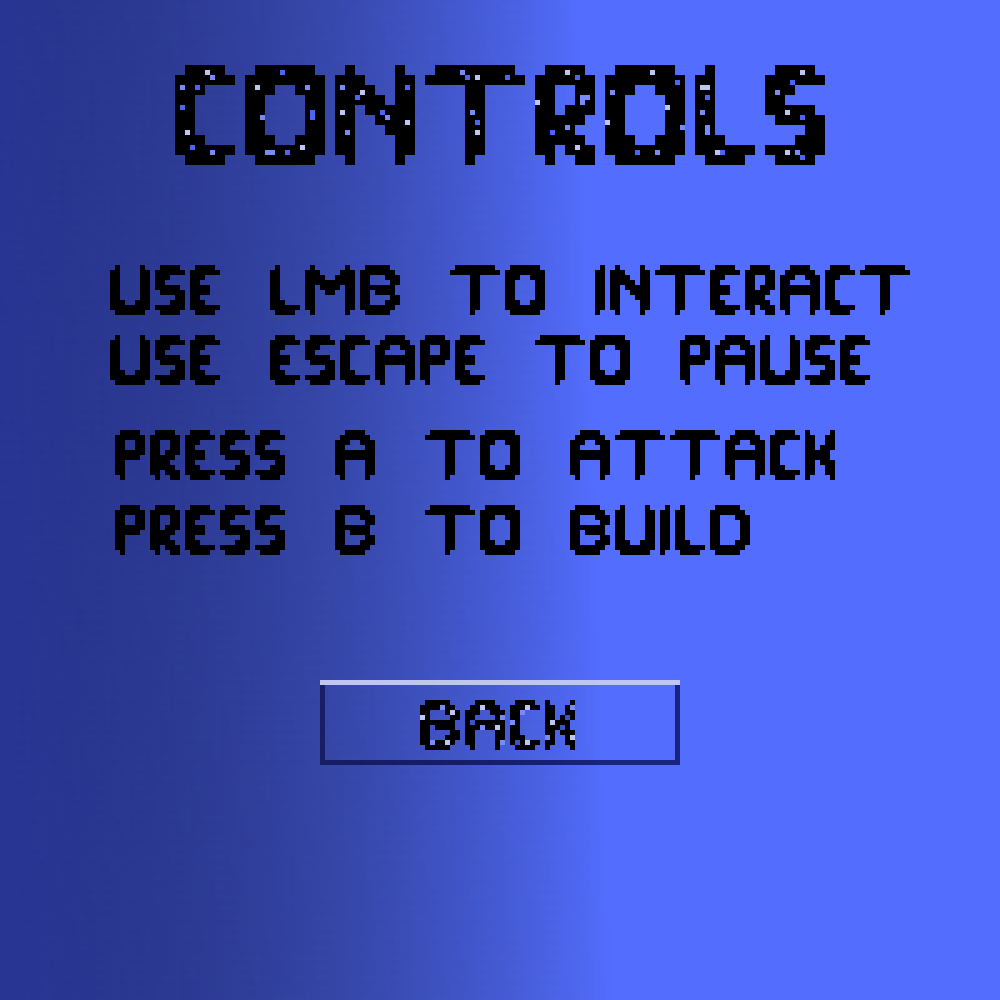
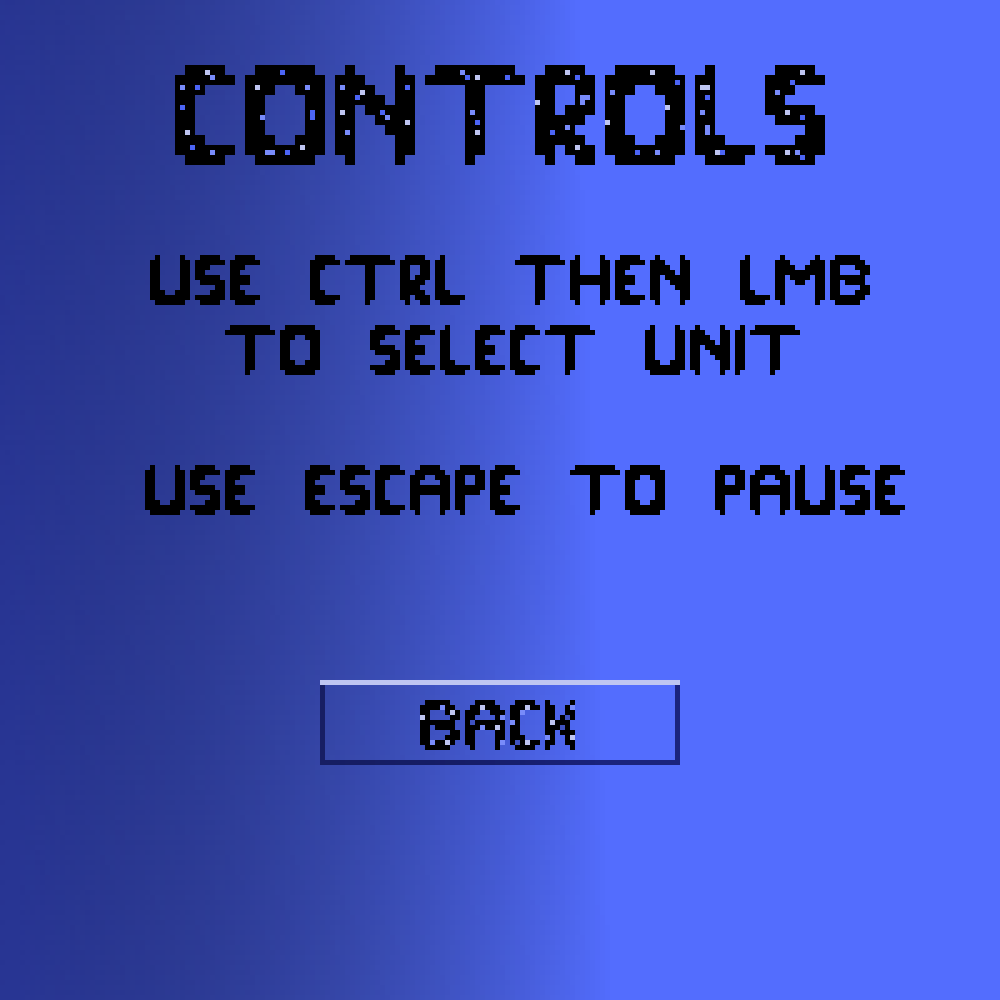
Adding pause

Changed region(s): [[0.093, 0.248, 0.899, 0.558]]

diff --git a/logic.js b/logic.js
@@ -75,6 +75,7 @@ let numberOfEnemyBuildings = 0;
 let timerID = undefined;
 let time = undefined;
 let difficulty = parseInt(localStorage.getItem('difficulty'));
+let paused = false;
 
 const mouse = {
     x: innerWidth / 2,
@@ -87,8 +88,6 @@ addEventListener('click', (event) => {
     mouse.x = event.clientX;
     mouse.y = event.clientY;
 
-    console.log({Message: "Mouse", X: mouse.x, Y: mouse.y});
-
     const playSound = (path) => {
         const fx = new Audio(path);
         fx.load();
@@ -100,28 +99,30 @@ addEventListener('click', (event) => {
 
     playSound('./sounds/Click.wav');
 
-    playerUnits.forEach(playerUnit  => {
+    if(!paused){
+        playerUnits.forEach(playerUnit  => {
 
-        if(event.ctrlKey){
-            const mouseObject = { 
-                model:{
-                    position:{
-                        x: mouse.x,
-                        y: mouse.y
-                    },
-                    dimensions:{
-                        width: 100,
-                        height: 100
+            if(event.ctrlKey){
+                const mouseObject = { 
+                    model:{
+                        position:{
+                            x: mouse.x,
+                            y: mouse.y
+                        },
+                        dimensions:{
+                            width: 100,
+                            height: 100
+                        }
                     }
                 }
+                playerUnit.setSelected(playerUnit.isColliding(mouseObject));
             }
-            playerUnit.setSelected(playerUnit.isColliding(mouseObject));
-        }
-        else{
-            playerUnit.setIsMoving(true);
-        }
-        
-    })
+            else{
+                playerUnit.setIsMoving(true);
+            }
+            
+        })
+    }
 });
 
 difficultyButton.addEventListener('click', () => {
@@ -132,6 +133,26 @@ difficultyButton.addEventListener('click', () => {
     localStorage.setItem('difficulty', difficulty);
     alert('Difficulty: ' + DifficultyPrototype[difficulty].name);
 })
+
+window.addEventListener('keydown', (event) => {
+    event.preventDefault();
+    if(event.key === 'Escape'){
+        if(paused){
+            let minutes = parseInt(time / 60, 10)
+            let seconds = parseInt(time % 60, 10);
+
+            minutes = minutes < 10 ? "0" + minutes : minutes;
+            seconds = seconds < 10 ? "0" + seconds : seconds;
+
+            timer.innerHTML = minutes + ":" + seconds;
+            paused = false;
+        }
+        else {
+            timer.innerHTML = 'Paused';
+            paused = true;
+        }
+    }
+});
 
 // -------------------------------- FUNCTIONS --------------------------------
 
@@ -286,6 +307,10 @@ function captureBuiding({attackingUnit, capturedUnit}){
                 clearTimeout(attackingUnit.getTimeoutID());
                 attackingUnit.setTimeoutID(undefined);
             }, 5000));
+        }
+        else if(paused && attackingUnit.getTimeoutID() !== undefined){
+            clearTimeout(attackingUnit.getTimeoutID());
+            attackingUnit.setTimeoutID(undefined);
         }        
     }
 }
@@ -315,6 +340,10 @@ function generateUnits({buildingUnit, playerUnits, enemyUnits, canvas, context})
             buildingUnit.setTimeoutID(undefined);
         }, 5000));
     }
+    else if (paused && buildingUnit.getTimeoutID()){
+        clearTimeout(buildingUnit.getTimeoutID());
+        buildingUnit.setTimeoutID(undefined);
+    }
 }
 
 function attackUnits({unit, enemyUnits}){
@@ -334,6 +363,10 @@ function attackUnits({unit, enemyUnits}){
             if(enemyUnit.getHp() <= 0) {
                 enemyUnits.splice(index, 1);
             }
+        }
+        else if(paused && enemyUnit.getAttacked() !== undefined){
+            clearTimeout(enemyUnit.getAttacked());
+            enemyUnit.setAttacked(undefined);
         }
         index++;
     });
@@ -370,6 +403,10 @@ function attackBuildings({unit, buildingUnits}){
                     }
                 }
             }
+            else if(paused && buildingUnit.getAttacked() !== undefined){
+                clearTimeout(buildingUnit.getAttacked());
+                buildingUnit.setAttacked(undefined);
+            }
         });
     }
 }
@@ -394,6 +431,10 @@ function moveUnit({unit, buildingUnits, fps}){
             unit.setMoved(setTimeout(() => {
                 unit.moveToBuilding(buildingUnits);
             }, 1000/fps));
+        }
+        else if(paused && unit.getMoved() !== undefined){
+            clearTimeout(unit.getMoved());
+            unit.setMoved(undefined);
         }
     }
 }
@@ -554,7 +595,7 @@ function updateTime(gameState){
 
     timerID = setInterval(() => {
 
-        if(gameState.victory === true || gameState.gameOver === true){
+        if(paused || gameState.victory || gameState.gameOver){
             return;
         }
 
@@ -591,30 +632,32 @@ export function animate({fps, state}){
         buildingUnits.forEach(buildingUnit => buildingUnit.drawTexture());
     }
 
-    playerHandler();
+    if(!paused){
+        playerHandler();
 
-    enemyHandler({
-        fps: fps
-    });
-
-    new Promise((resolve) => {
-        buildingsHandler({
-            state: state,
-            animationFrame: frameID
+        enemyHandler({
+            fps: fps
         });
-        resolve()
-    }).then(() => {
-        updateScore();
-    })
 
-    if(!timerID){ updateTime(state); }
-    if(time <= 0){
-        cancelAnimationFrame(frameID);
-        if(numberOfPlayerBuildings < numberOfEnemyBuildings){
-            state.gameOver = true;
-        }
-        else{
-            state.victory = true;
+        new Promise((resolve) => {
+            buildingsHandler({
+                state: state,
+                animationFrame: frameID
+            });
+            resolve()
+        }).then(() => {
+            updateScore();
+        })
+
+        if(!timerID){ updateTime(state); }
+        if(time <= 0){
+            cancelAnimationFrame(frameID);
+            if(numberOfPlayerBuildings < numberOfEnemyBuildings){
+                state.gameOver = true;
+            }
+            else{
+                state.victory = true;
+            }
         }
     }
 }
